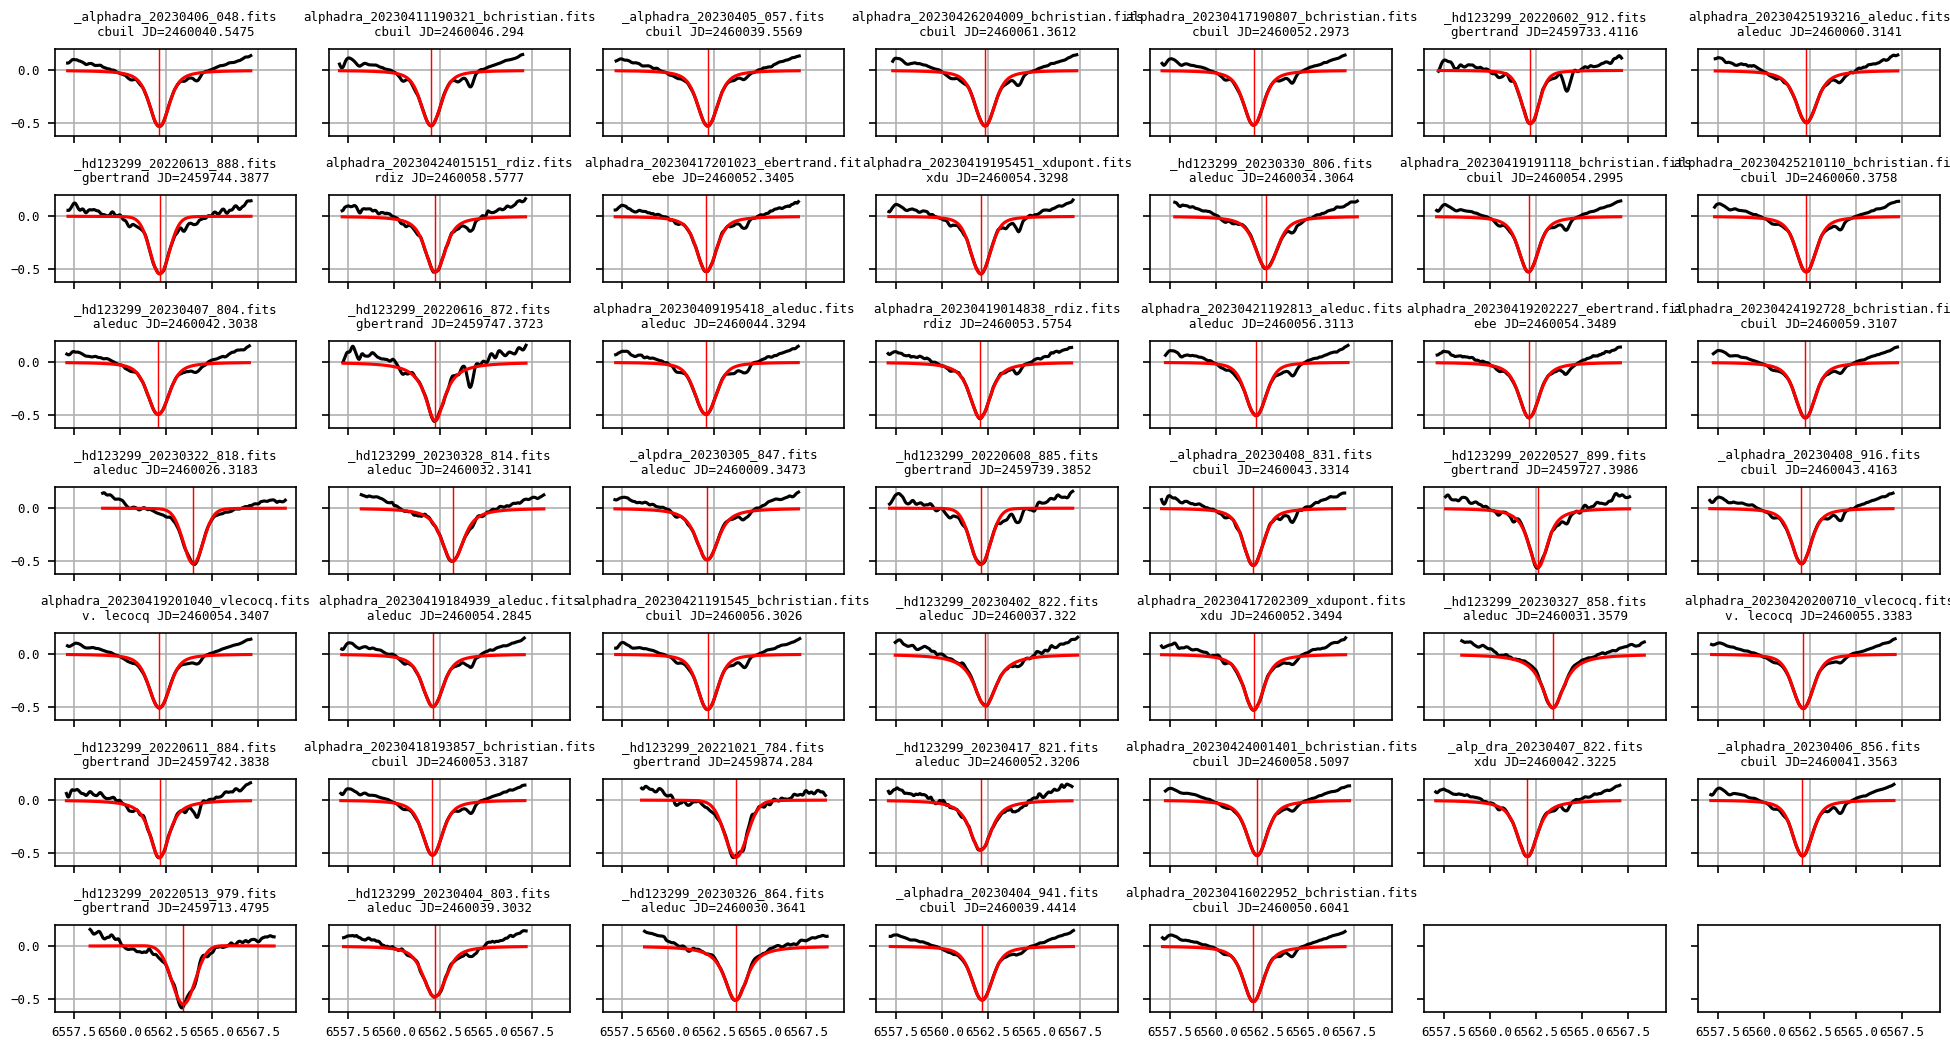
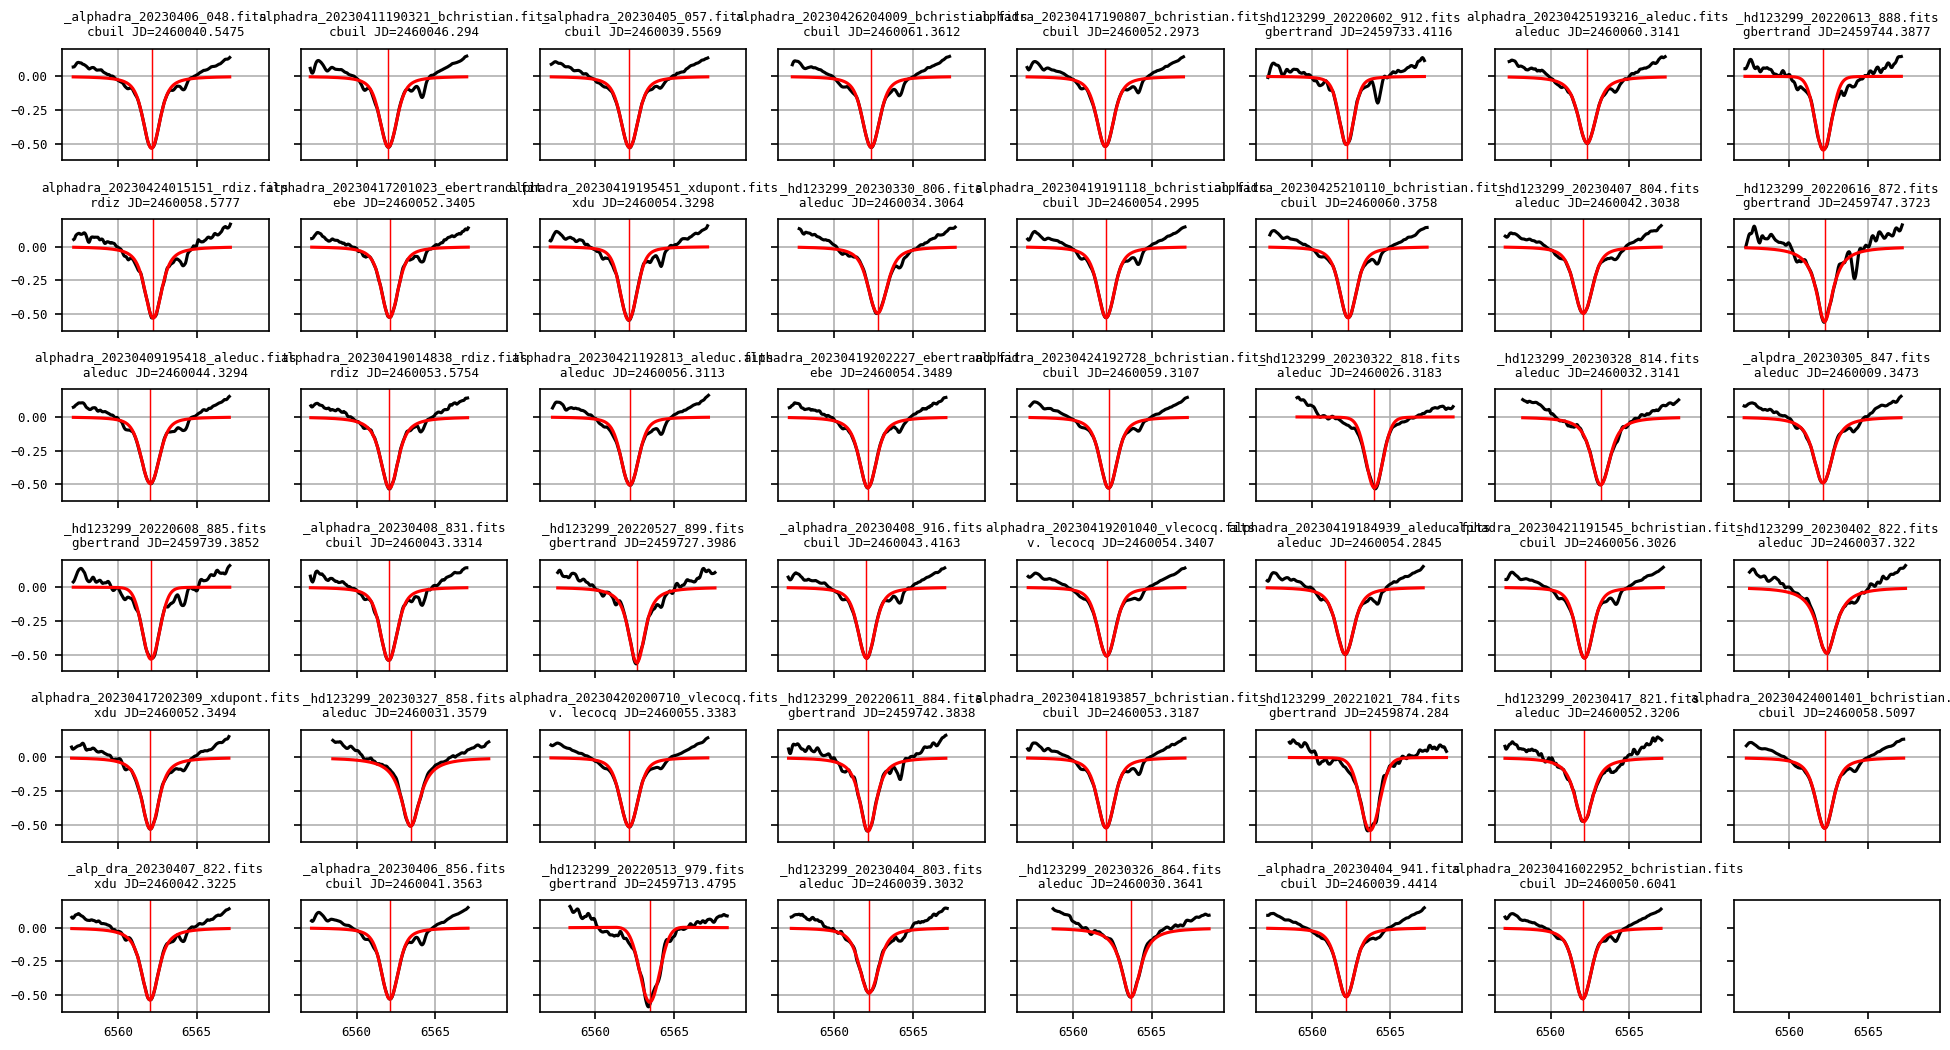
minor change debug mode

Changed region(s): [[0.0, 0.0, 1.0, 1.0]]

diff --git a/spectroscopicbinarysystem/__init__.py b/spectroscopicbinarysystem/__init__.py
@@ -294,8 +294,8 @@ class SpectroscopicBinarySystem:
             print(f'{len(self._sb_spectra)} processed spectra')
             plt.rcParams['font.size'] = '6'
             plt.rcParams['font.family'] = 'monospace'
-            grid_size = math.ceil(len(self._sb_spectra)**.5)
-            fig, axs = plt.subplots(grid_size,grid_size, figsize=(13,7), sharex=True, sharey=True)
+            grid_size = math.ceil(len(self._sb_spectra)/6)
+            fig, axs = plt.subplots(6,grid_size, figsize=(13,7), sharex=True, sharey=True)
             for i, s in enumerate(self._sb_spectra):
                 ax = axs.flat[i]
                 extracted_profil, line_fitting = s.getDebugLineFitting()
